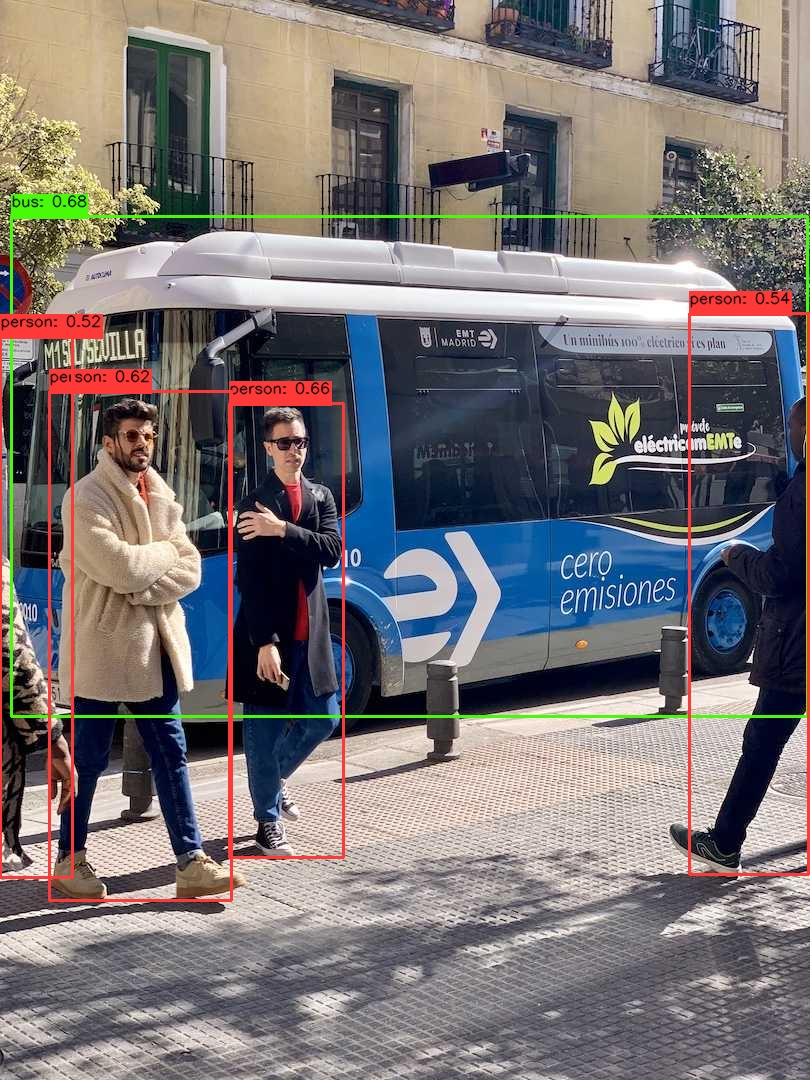
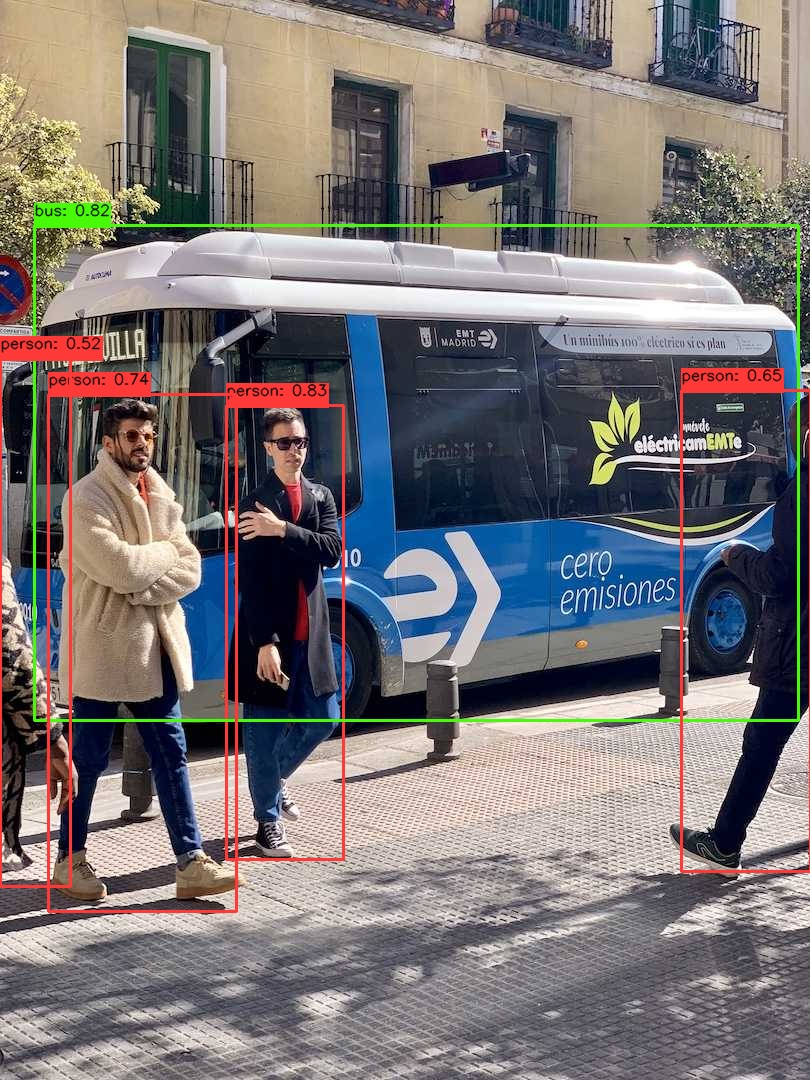
update Faster YOLOv10, v8, v8-seg, v5, FCOS for X3.

Changed region(s): [[0.0, 0.1528, 1.0, 0.8556]]

diff --git a/demos/detect/FCOS/FCOS.py b/demos/detect/FCOS/FCOS.py
@@ -50,7 +50,7 @@ def main():
     parser.add_argument('--classes-num', type=int, default=80, help='Classes Num to Detect.')
     parser.add_argument('--iou-thres', type=float, default=0.6, help='IoU threshold.')
     parser.add_argument('--conf-thres', type=float, default=0.5, help='confidence threshold.')
-    parser.add_argument('--is-stride', type=bool, default=True, help='True: X5, False: X3')
+    parser.add_argument('--is-stride', type=bool, default=False, help='True: X5, False: X3')
     parser.add_argument('--strides', type=lambda s: list(map(int, s.split(','))), 
                         default=[8, 16, 32, 64, 128],
                         help='--anchors 8,16,32,64,128')

diff --git a/demos/Instance_Segmentation/YOLOv8-Seg/YOLOv8_Seg.py b/demos/Instance_Segmentation/YOLOv8-Seg/YOLOv8_Seg.py
@@ -37,7 +37,7 @@ logger = logging.getLogger("RDK_YOLO")
 
 def main():
     parser = argparse.ArgumentParser()
-    parser.add_argument('--model-path', type=str, default='models/yolov8n_instance_seg_bayese_640x640_nv12_modified.bin', 
+    parser.add_argument('--model-path', type=str, default='models/yolov8n_instance_seg_bernoulli2_640x640_nv12_modified.bin', 
                         help="""Path to BPU Quantized *.bin Model.
                                 RDK X3(Module): Bernoulli2.
                                 RDK Ultra: Bayes.

diff --git a/demos/detect/YOLOv10/YOLOv10_Detect.py b/demos/detect/YOLOv10/YOLOv10_Detect.py
@@ -37,7 +37,7 @@ logger = logging.getLogger("RDK_YOLO")
 
 def main():
     parser = argparse.ArgumentParser()
-    parser.add_argument('--model-path', type=str, default='models/yolov10n_detect_bayese_640x640_nv12_modified.bin', 
+    parser.add_argument('--model-path', type=str, default='models/yolov10n_detect_bernoulli2_640x640_nv12_modified.bin', 
                         help="""Path to BPU Quantized *.bin Model.
                                 RDK X3(Module): Bernoulli2.
                                 RDK Ultra: Bayes.

diff --git a/demos/detect/YOLOv8/YOLOv8_Detect.py b/demos/detect/YOLOv8/YOLOv8_Detect.py
@@ -37,7 +37,7 @@ logger = logging.getLogger("RDK_YOLO")
 
 def main():
     parser = argparse.ArgumentParser()
-    parser.add_argument('--model-path', type=str, default='models/yolov8s_detect_bayese_640x640_nv12_modified.bin', 
+    parser.add_argument('--model-path', type=str, default='models/yolov8n_detect_bernoulli2_640x640_nv12_modified.bin', 
                         help="""Path to BPU Quantized *.bin Model.
                                 RDK X3(Module): Bernoulli2.
                                 RDK Ultra: Bayes.

diff --git a/demos/detect/YOLOv5/YOLOv5_Detect.py b/demos/detect/YOLOv5/YOLOv5_Detect.py
@@ -38,7 +38,7 @@ logger = logging.getLogger("RDK_YOLO")
 
 def main():
     parser = argparse.ArgumentParser()
-    parser.add_argument('--model-path', type=str, default='models/yolov5s_672x672_nv12.bin', 
+    parser.add_argument('--model-path', type=str, default='models/yolov5s_tag_v2.0_detect_640x640_bernoulli2_nv12.bin', 
                         help="""Path to BPU Quantized *.bin Model.
                                 RDK X3(Module): Bernoulli2.
                                 RDK Ultra: Bayes.

diff --git a/demos/Instance_Segmentation/YOLOv8-Seg/models/download.md b/demos/Instance_Segmentation/YOLOv8-Seg/models/download.md
@@ -43,3 +43,7 @@ wget https://archive.d-robotics.cc/downloads/rdk_model_zoo/rdk_x5/yolov8x_instan
 
 
 ## Bernoulli2 (RDK X3 & RDK X3 Module)
+nv12 - bin
+```bash
+wget https://archive.d-robotics.cc/downloads/rdk_model_zoo/rdk_x3/yolov8n_instance_seg_bernoulli2_640x640_nv12_modified.bin
+```
